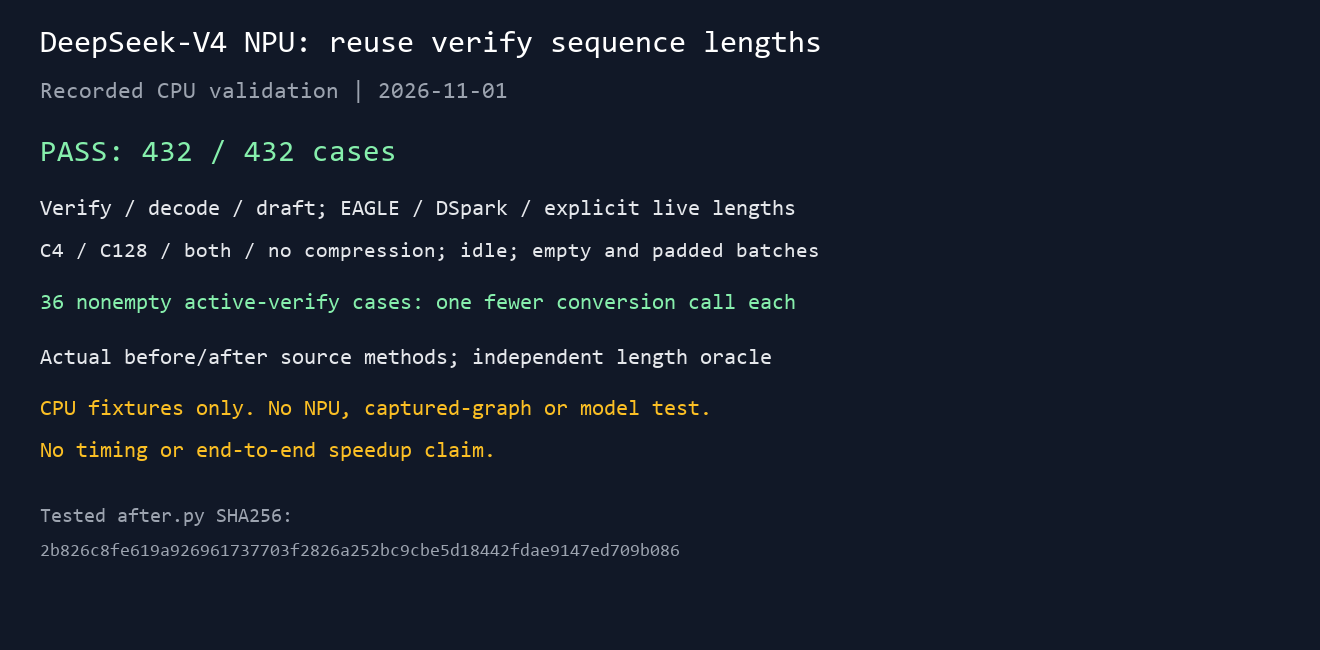
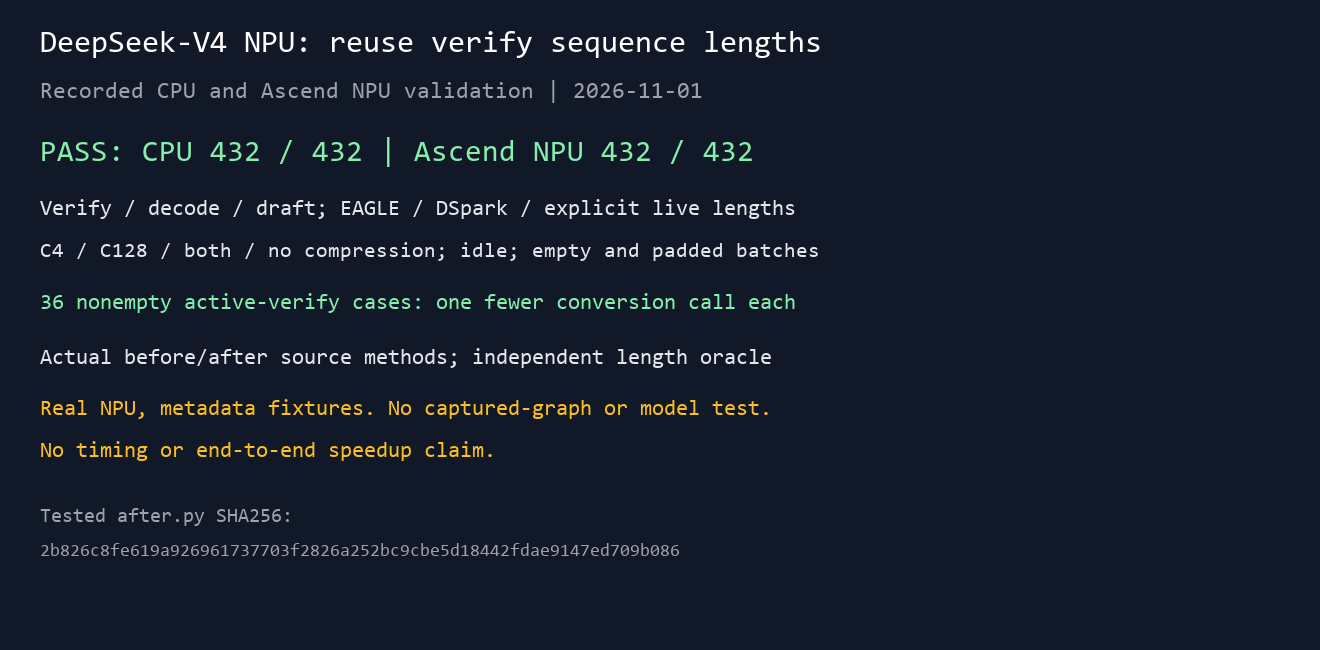
Add Ascend NPU validation results

diff --git a/README.md b/README.md
@@ -14,9 +14,13 @@ created by the context builder. Other branches retain their existing copy.
 36 nonempty cases remove one conversion call each; 18 empty cases also
 remove a call. No numerical difference was found in these fixture tests.
 
-No NPU run was performed because available devices had resident workloads.
+CPU and real Ascend NPU runs each passed all 432 cases, using identical source
+hashes. NPU environment: torch 2.10.0+cpu and torch_npu 2.10.0.post6.
+The NPU test executes real device copies and device operations, with results
+copied back and checked against the independent oracle. Copy counts are
+instrumented Tensor.to calls, not profiler measurements.
 No captured-graph replay, full model, TTFT/TPOT or timing validation is claimed.
-The script also accepts `npu` for a future device run with torch_npu.
+Run `python validate_fix.py npu` with torch_npu to repeat the device test.
 
 validation.png is a report generated from saved results, not a terminal screenshot.
 This evidence branch is separate from the production PR.
